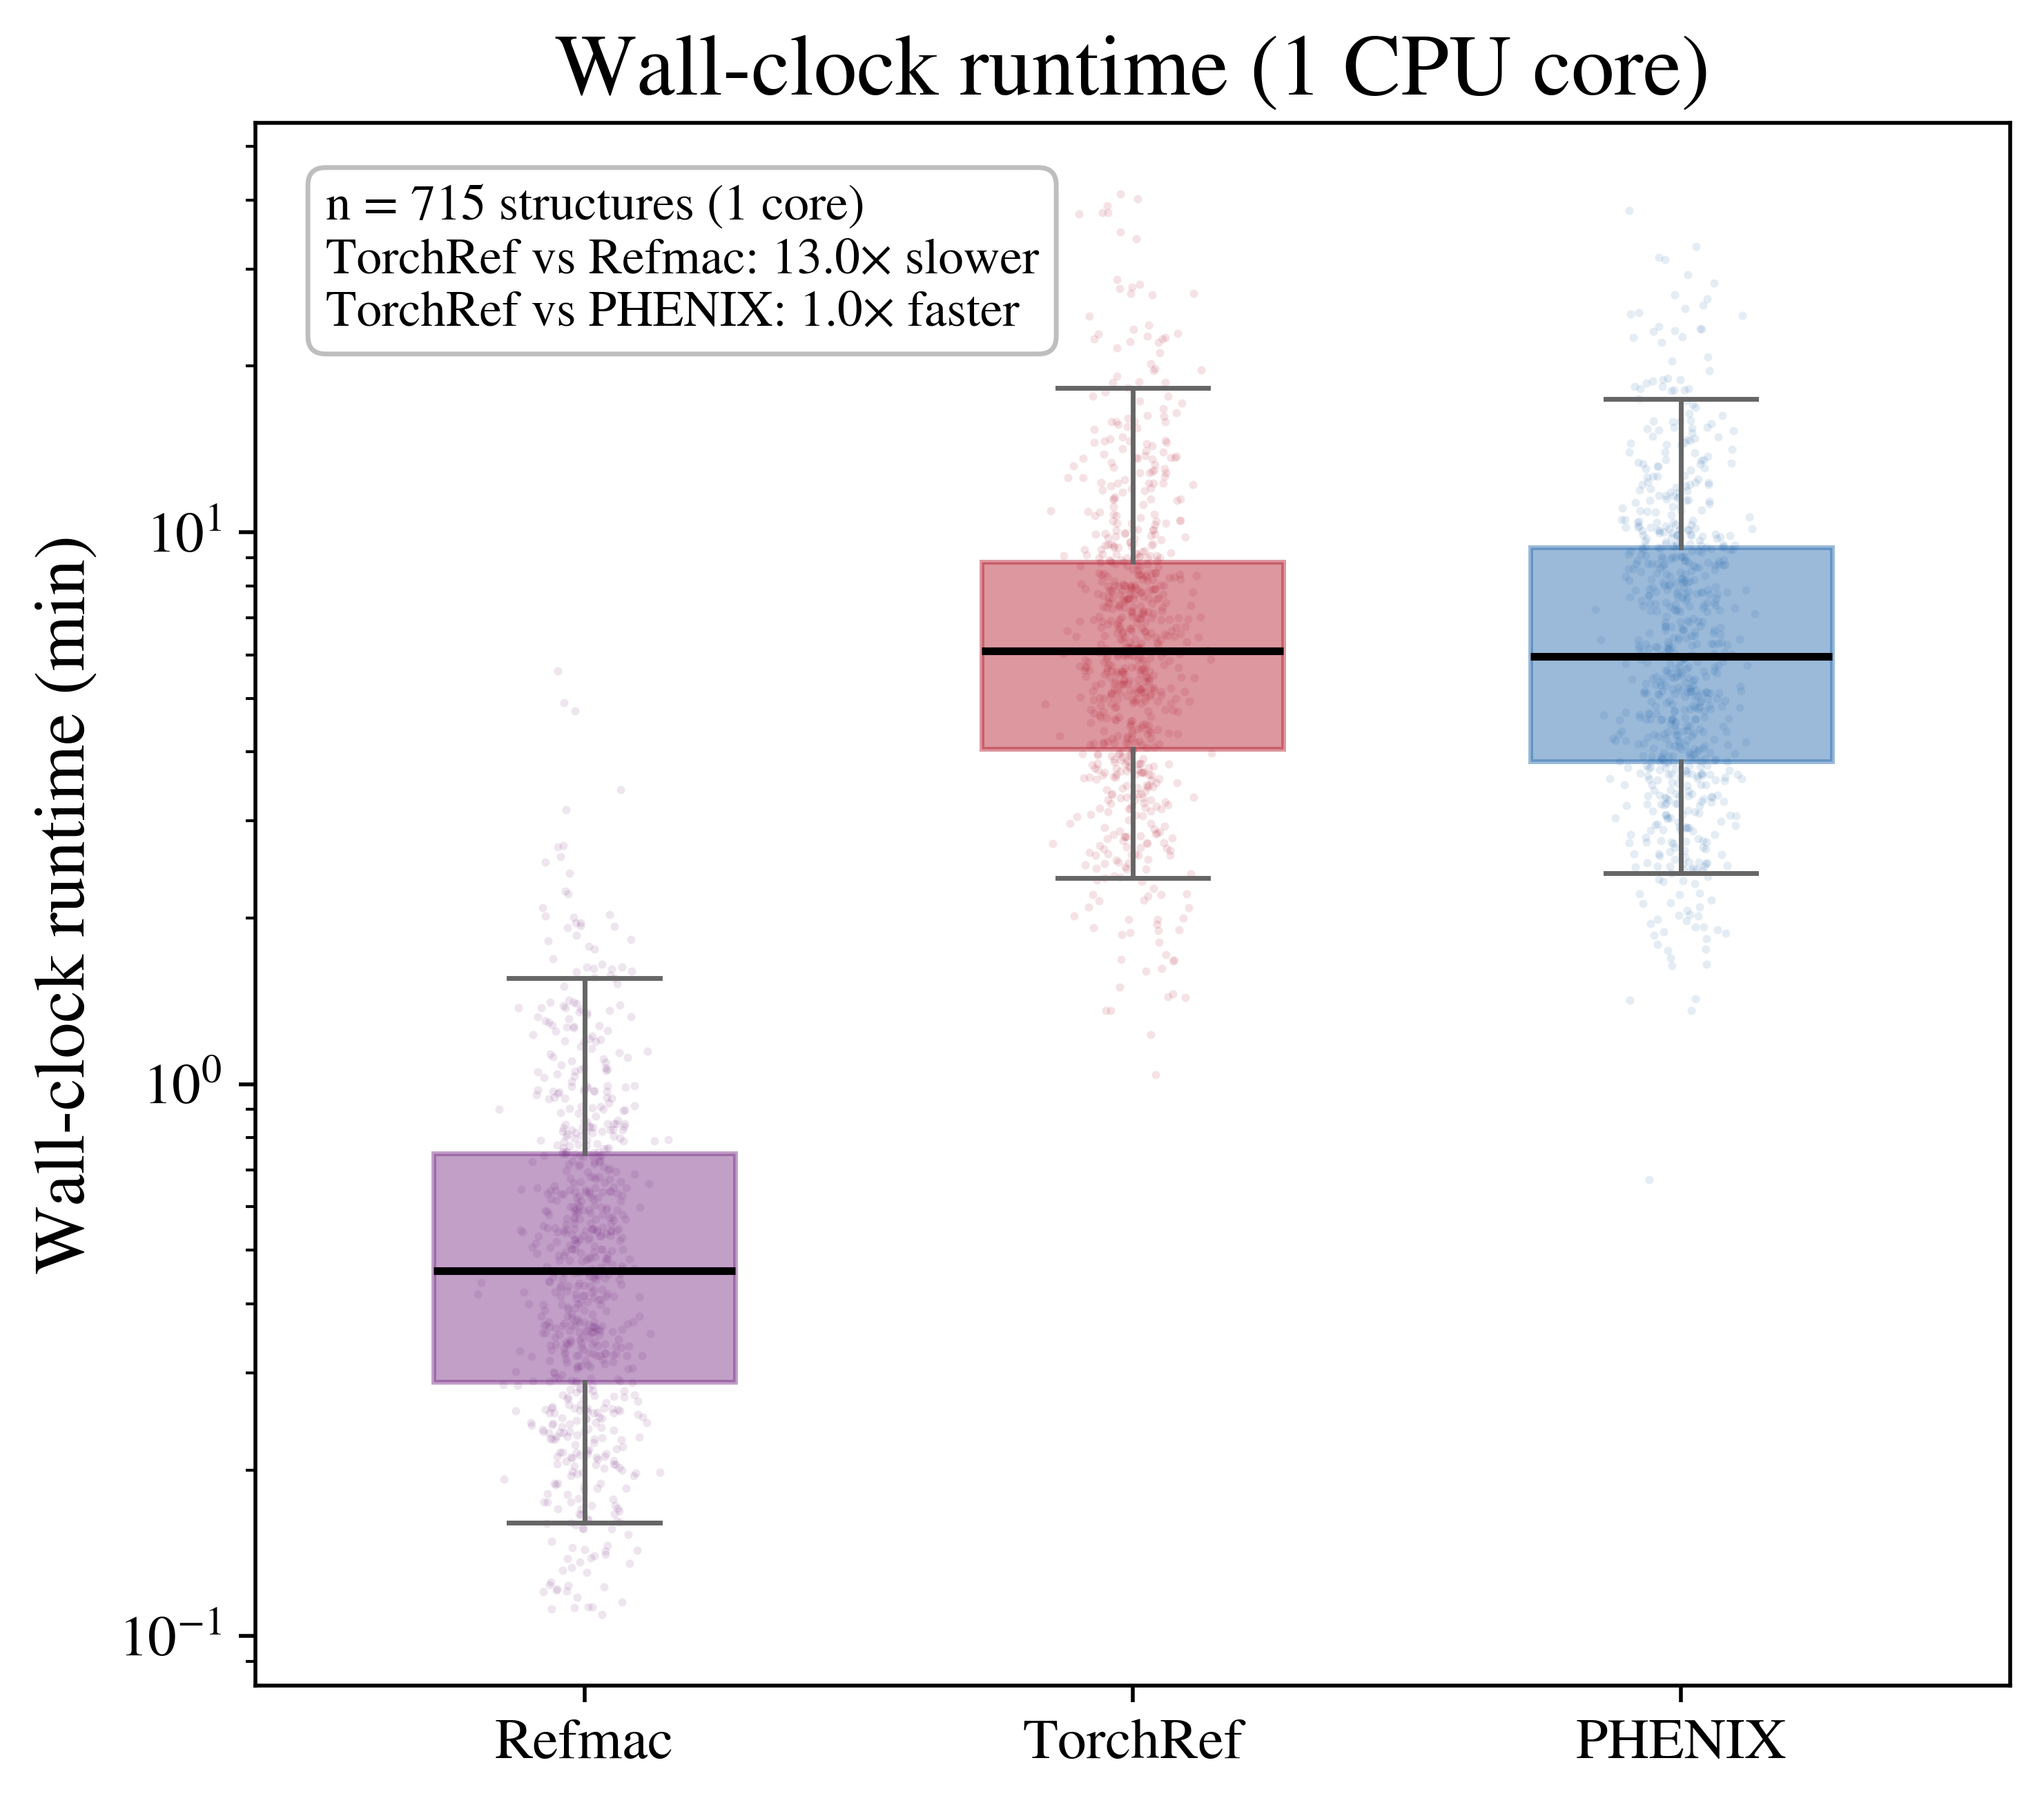
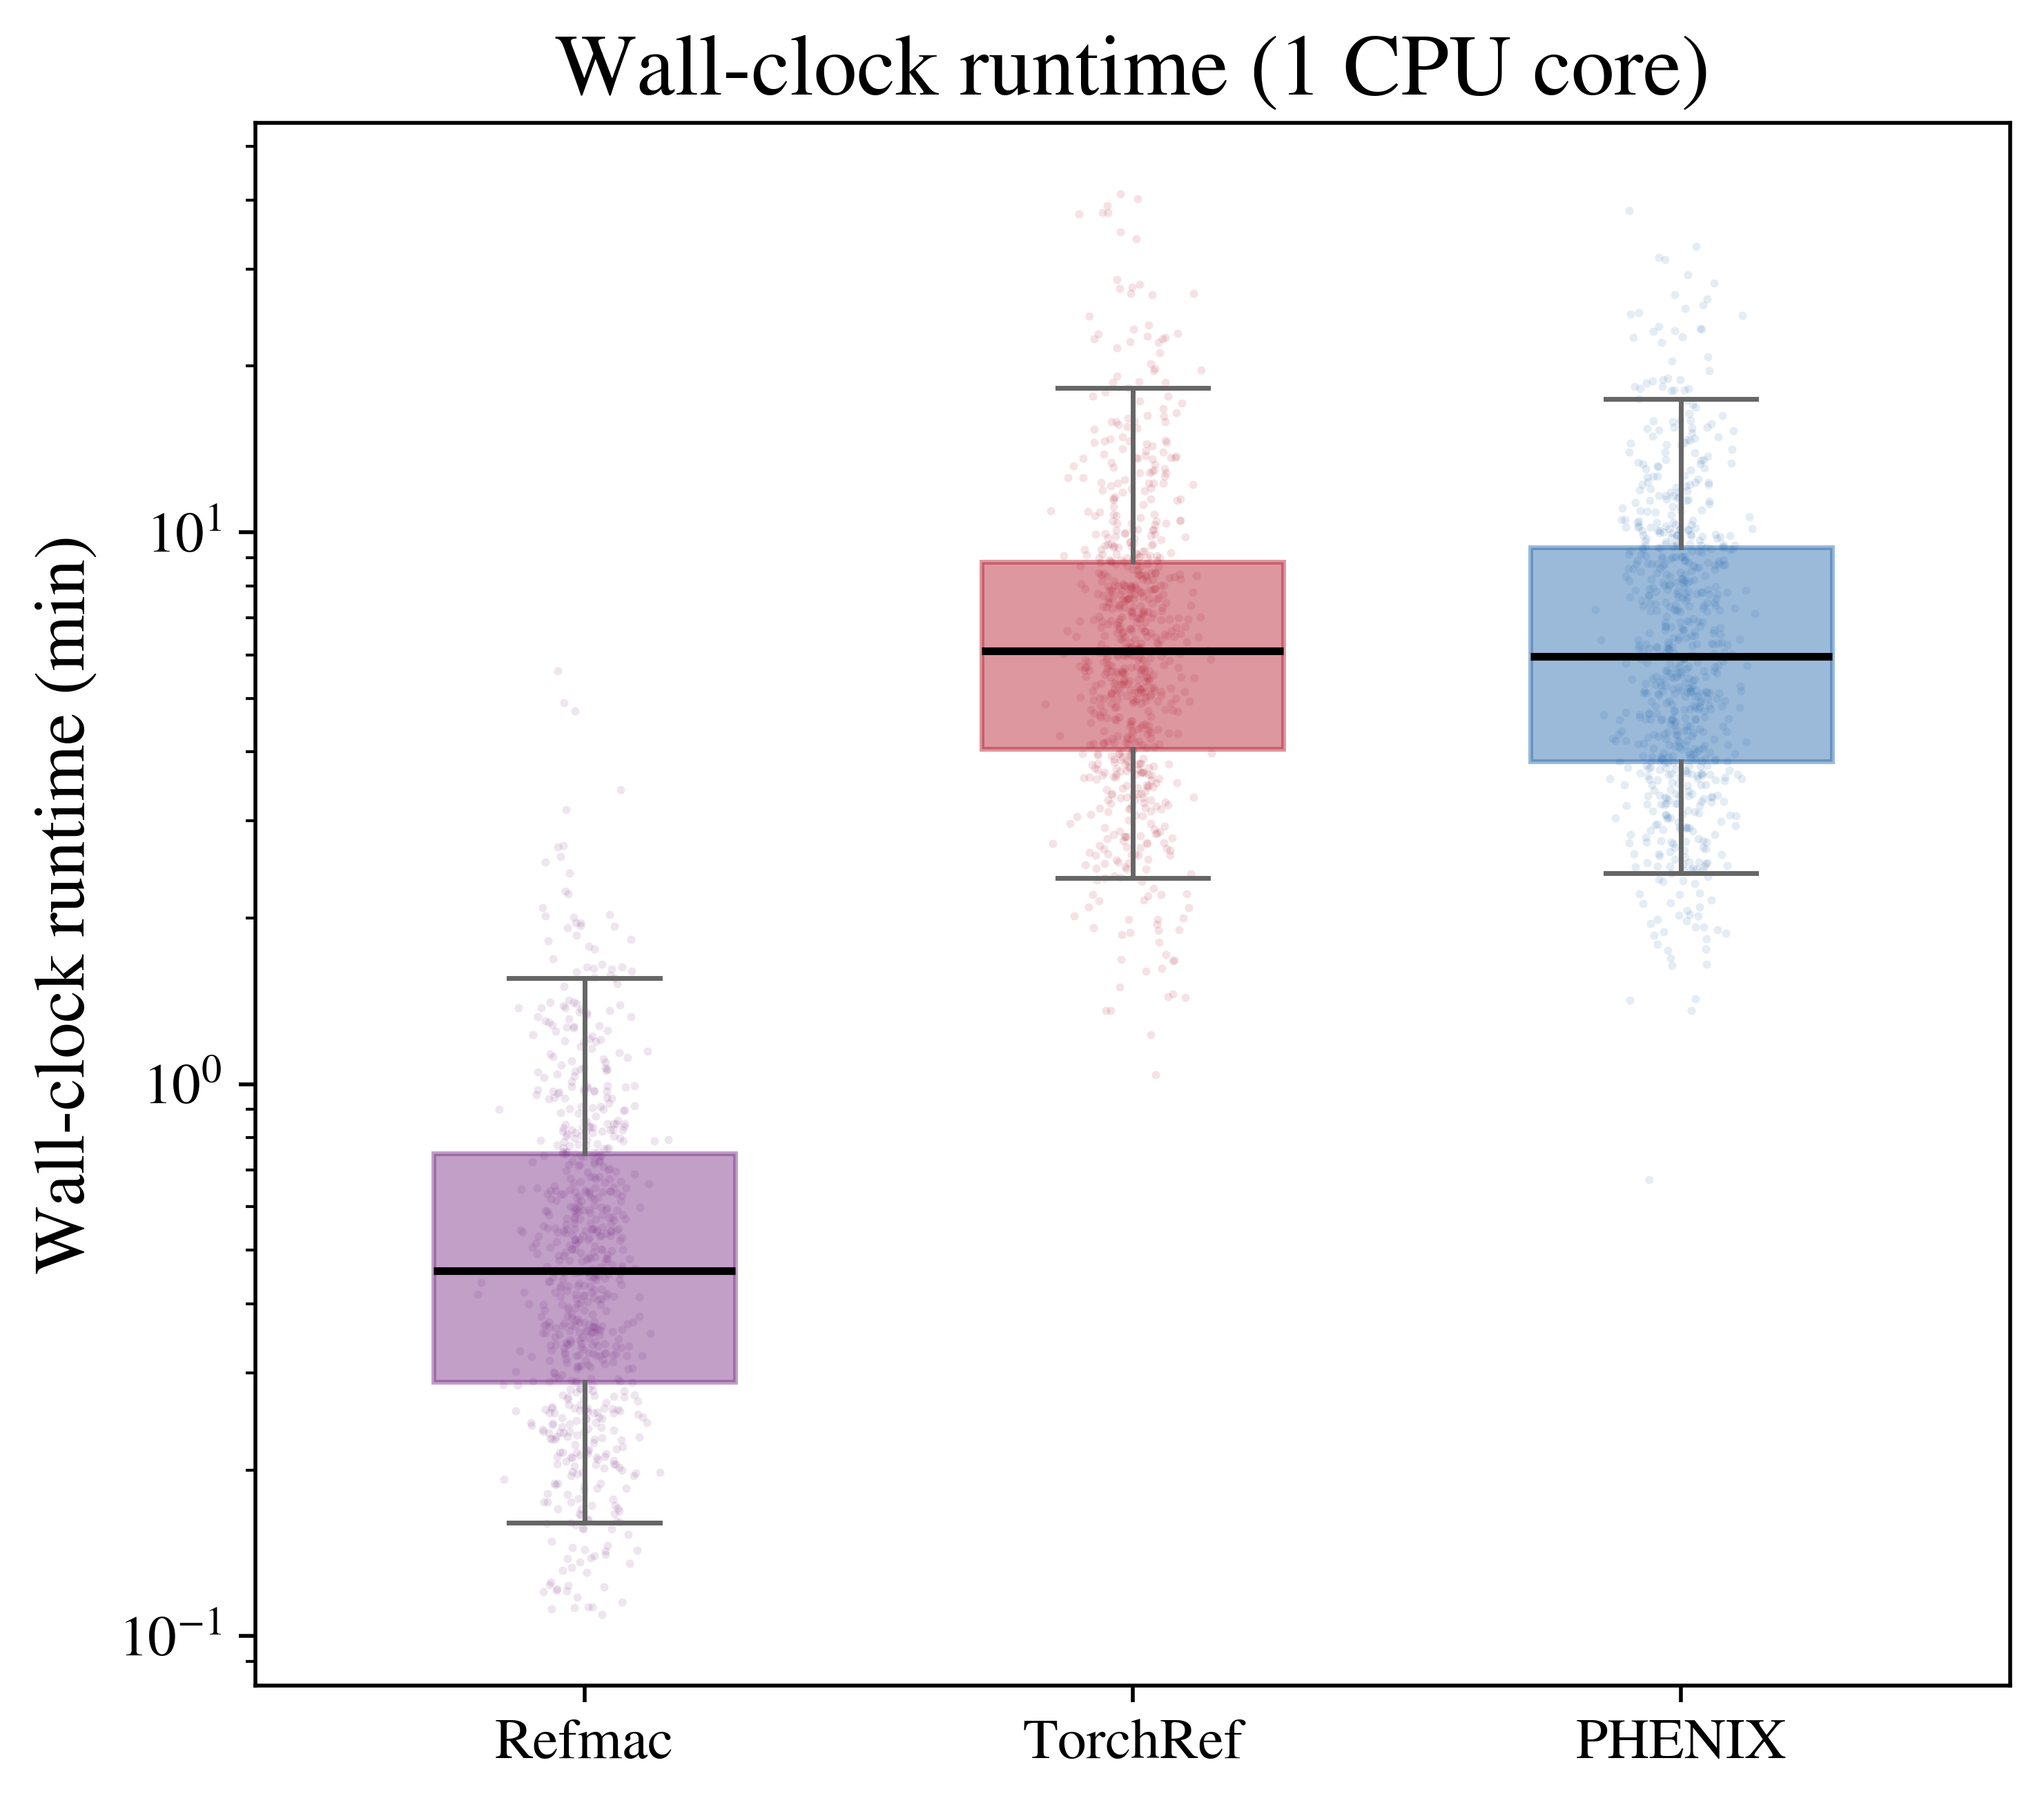
Removed annotations from Fig2c and exF4

Changed region(s): [[0.1554, 0.0929, 0.5282, 0.1859]]

diff --git a/figure2_alphafold_start/plot_figure_af.py b/figure2_alphafold_start/plot_figure_af.py
@@ -178,20 +178,8 @@ def plot_runtime_box(ax, runtime_long):
     ax.set_xticklabels([LABEL[e] for e in order])
     ax.set_ylabel("Wall-clock runtime (min)")
     ax.set_title("Wall-clock runtime")
-
-    # Ratio of the per-engine median runtimes (the medians shown by this box plot
-    # and by FIGURE_MEDIANS Fig2C), so the annotation is reproducible from the
-    # displayed medians and consistent with analysis/summarize_medians.py.
-    def _med(e):
-        return float(np.median(
-            runtime_long.loc[runtime_long.engine == e, "wall_s"].dropna()))
-    r_ref = _med("torchref") / _med("refmac")
-    r_phe = _med("phenix") / _med("torchref")
-    txt = (f"TorchRef vs Refmac: {r_ref:.1f}× slower\n"
-           f"TorchRef vs PHENIX: {r_phe:.1f}× faster")
-    ax.text(0.04, 0.96, txt, transform=ax.transAxes, ha="left", va="top",
-            fontsize=10.5,
-            bbox=dict(boxstyle="round,pad=0.35", fc="white", ec="0.7", alpha=0.85))
+    # The per-engine median-runtime ratios are reported in the figure caption /
+    # FIGURE_MEDIANS Fig2C rather than annotated on the panel.
 
 
 # ── Panel D: normalized convergence speed ────────────────────────────────────

diff --git a/extended_figures/exF4/plot_singlecore.py b/extended_figures/exF4/plot_singlecore.py
@@ -75,22 +75,9 @@ def plot_runtime_box(ax, runtime_long):
     ax.set_ylabel("Wall-clock runtime (min)")
     ax.set_title("Wall-clock runtime (1 CPU core)")
 
-    # paired median ratios (TorchRef as reference) over the conserved set
-    wide = runtime_long.pivot_table(index="code", columns="program", values="wall_s")
-
-    def pair_ratio(a, b):
-        m = wide[a].notna() & wide[b].notna()
-        return float(np.median(wide.loc[m, a] / wide.loc[m, b]))
-
-    r_ref = pair_ratio("torchref", "refmac")
-    r_phe = pair_ratio("torchref", "phenix")
-    n = int(wide[order].notna().all(axis=1).sum())
-    txt = (f"n = {n} structures (1 core)\n"
-           f"TorchRef vs Refmac: {r_ref:.1f}× slower\n"
-           f"TorchRef vs PHENIX: {1/r_phe:.1f}× faster")
-    ax.text(0.04, 0.96, txt, transform=ax.transAxes, ha="left", va="top",
-            fontsize=10.5,
-            bbox=dict(boxstyle="round,pad=0.35", fc="white", ec="0.7", alpha=0.85))
+    # The pairwise median-runtime ratios (TorchRef vs Refmac / PHENIX) and n are
+    # reported in the figure caption / FIGURE_MEDIANS exF4 rather than annotated
+    # on the panel.
 
 
 def main():
